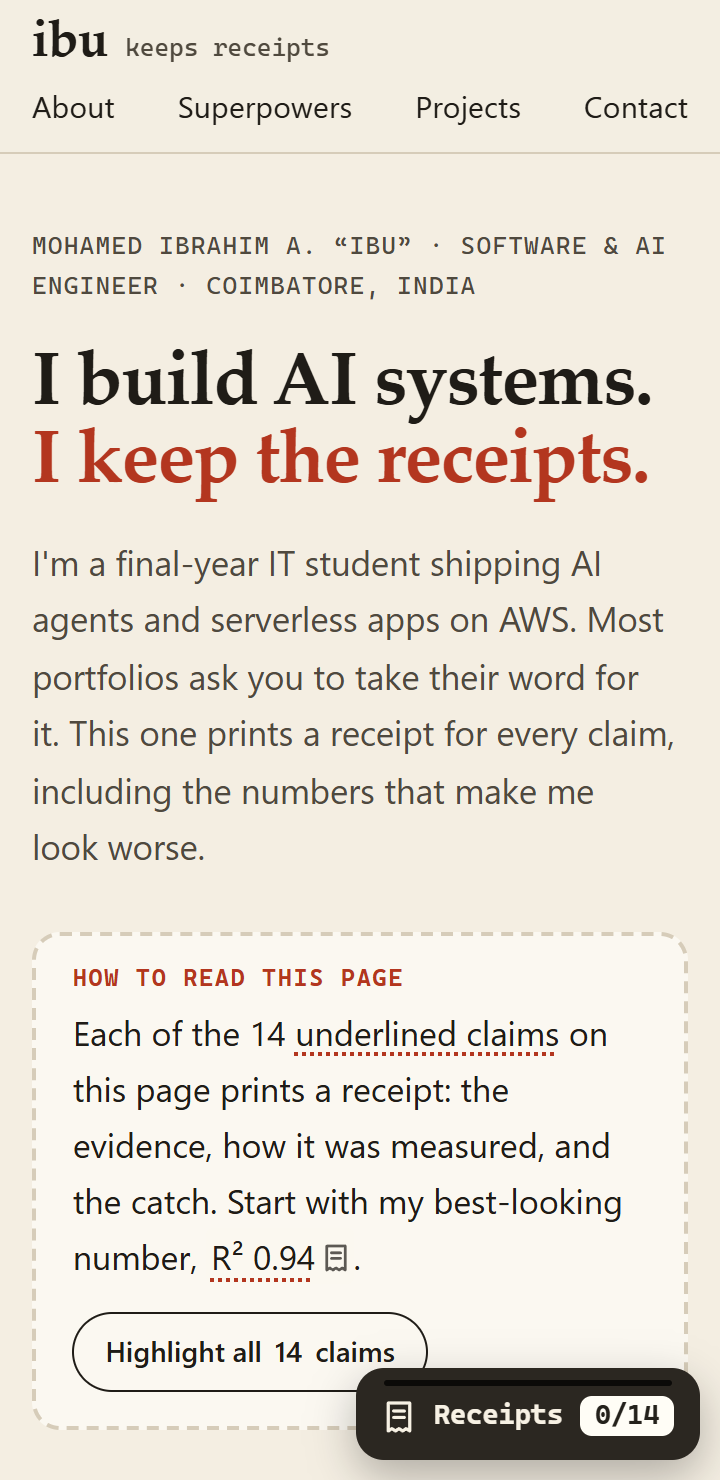
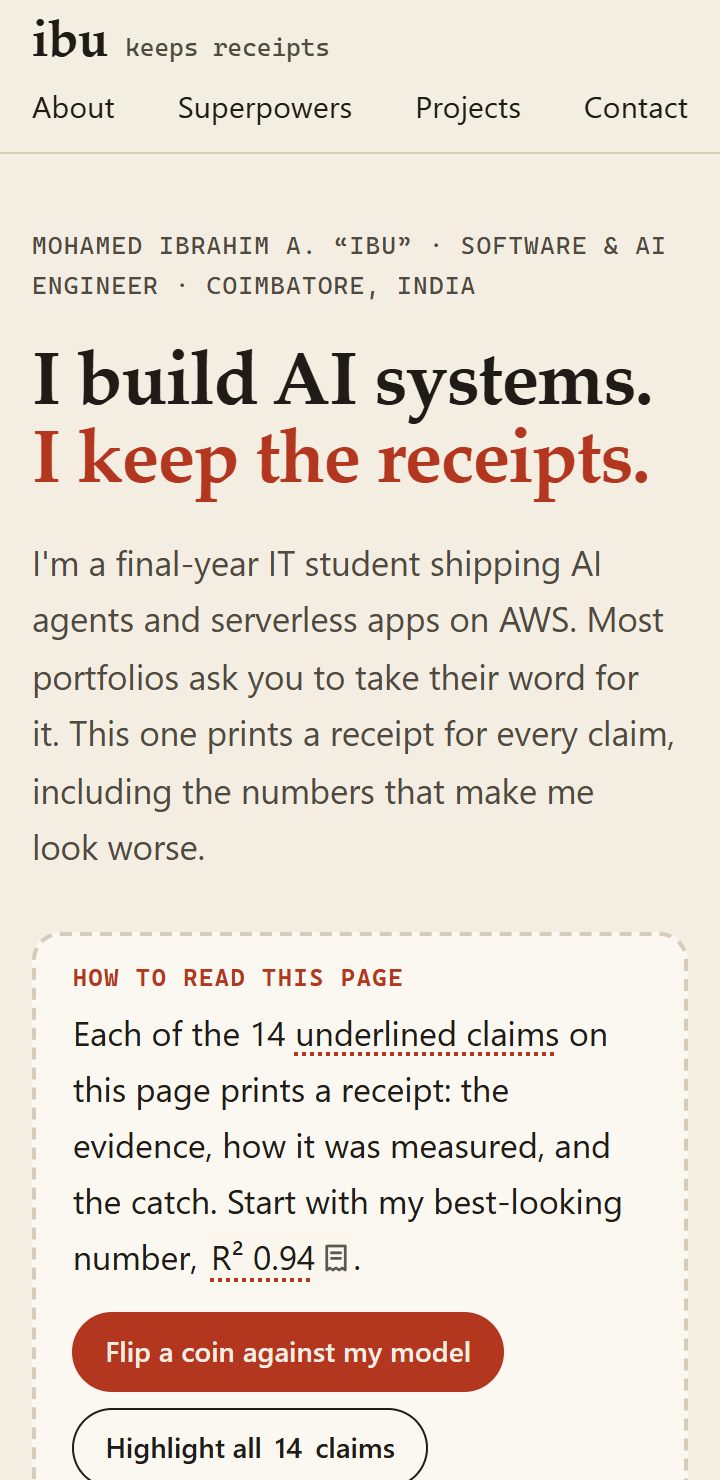
Screenshots and docs for build #4 [skip-cd]
- Re-captured 08 (hero with the coin-race button and build #4 stamp),
  09 (phone first screen, tab tucked), 10 (coin race) and 15 (site receipt).
- README and write-up: describe the coin-race button, use build #4 in
  examples, and add the phone-tab and axe findings to the challenges table.

Changed region(s): [[0.0917, 0.8703, 0.9778, 1.0], [0.0306, 0.9635, 0.0611, 1.0]]

diff --git a/PROJECT_WRITEUP.md b/PROJECT_WRITEUP.md
@@ -27,13 +27,13 @@ So for this challenge I asked: what if my portfolio followed the same rule? The 
 
 - **Every claim is a button.** Click `30 typed tools` and a receipt feeds out of a small printer docked bottom-right. It lists line items (`Tools in ALL_TOOLS ..... 30`), the evidence links (the exact file and line on GitHub), how it was measured, the catch, and a stamp: **Verified**, **Partial** or **Self-reported**.
 - **Corrections are printed, not hidden.** My README said the agent has 32 tools; the registry has 30. An old write-up said CryptoPulse used an 80/20 split; the notebook's LSTM cell splits 70/30. Tiny Tale Toy's README names a different model from the code. Those receipts carry a red **Corrected** box.
-- **Coin vs. model.** The CryptoPulse receipt has a button that flips a coin 100 times and races it against my model's 47.93%. The coin often wins, and the receipt says so.
+- **Coin vs. model.** The first screen has a **Flip a coin against my model** button. It prints the CryptoPulse receipt and races a coin, flipped 100 times, against my model's 47.93%. The coin often wins, and the receipt says so.
 - **The itemized bill.** The printer tab opens a summary: 14 claims, how many are backed by public proof, partial or self-reported, write-ups the code corrected, invented facts (0), and how many receipts *you* have audited.
-- **The page's own receipt.** On the first screen, the hero receipt shows which Amplify build and commit you're looking at ("Live on AWS Amplify · build #3 · commit …"). Click that, or the footer's "deployed on AWS Amplify", and you get the full receipt: app, branch, build number and commit, written into the page by the Amplify build at deploy time. I didn't type them. AWS did.
+- **The page's own receipt.** On the first screen, the hero receipt shows which Amplify build and commit you're looking at ("Live on AWS Amplify · build #4 · commit 1d61ba0"). Click that, or the footer's "deployed on AWS Amplify", and you get the full receipt: app, branch, build number and commit, written into the page by the Amplify build at deploy time. I didn't type them. AWS did.
 
 ![The page's own receipt next to the matching build in the Amplify console](https://raw.githubusercontent.com/MdIbuA/ibu-receipts/main/docs/screenshots/07-site-receipt-vs-console.png)
 
-**How you find it in ten seconds.** The first screen has a dashed **"How to read this page"** box that names the first claim to try (`R² 0.94`, which pulses a few times to catch your eye), a receipt-shaped **stub** that prints itself out of a little printer slot the first time you see it ("Printed for you at 10:42"), stamped with the live Amplify build, and a printer **tab** in the corner reading `0/14`. A **Highlight all 14 claims** button marks every claim on the page.
+**How you find it in ten seconds.** The first screen has a dashed **"How to read this page"** box that names the first claim to try (`R² 0.94`, which pulses a few times to catch your eye), a receipt-shaped **stub** that prints itself out of a little printer slot the first time you see it ("Printed for you at 10:42"), stamped with the live Amplify build, and a printer **tab** in the corner reading `0/14`. Two buttons sit in the hint: **Flip a coin against my model** and **Highlight all 14 claims**.
 
 ![Highlight mode: every claim in the Tech superpowers section marked like a highlighter pen](https://raw.githubusercontent.com/MdIbuA/ibu-receipts/main/docs/screenshots/13-feature-highlight.png)
 
@@ -87,6 +87,8 @@ There's no Lambda, API Gateway or database, on purpose. Everything the feature n
 | A section highlight in the nav stuck after scrolling back to the top | Clear the current section when it leaves the viewport band, not only when another enters |
 | The print animation is fun once and annoying for some people | `prefers-reduced-motion` disables printing, stamping and pulsing in both CSS and JS |
 | Amplify's first build reported its commit as `HEAD`, so the site's receipt printed "HEAD" instead of a hash | The stamp script now resolves anything that isn't a full hash with `git rev-parse HEAD` in the build's clone |
+| On a 360px phone, the floating receipts tab sat on top of the hint's buttons on the first screen | The tab tucks away while the hint is on screen and comes back once you scroll past it |
+| An accessibility scan (axe) flagged the hero receipt as an `<aside>` nested inside another landmark | Made it a labelled group; axe now reports zero issues at phone and desktop sizes |
 | Windows line endings would break the bash stamp script on Amplify's Linux builder | `.gitattributes` forces LF for `*.sh` and `amplify.yml` |
 | A `display: grid` rule once beat the `hidden` attribute in an earlier project of mine and covered the whole app | `[hidden] { display: none !important; }` from the first line |
 

diff --git a/README.md b/README.md
@@ -25,9 +25,9 @@ Click a number like `R² 0.94` or `30 typed tools` and a till-style receipt feed
 
 Three extras:
 
-- **Coin vs. model.** The CryptoPulse receipt lets you flip a coin 100 times against my LSTM's 47.93% direction accuracy. The coin often wins, and the receipt says so.
+- **Coin vs. model.** A **Flip a coin against my model** button on the first screen prints the CryptoPulse receipt and flips a coin 100 times against my LSTM's 47.93% direction accuracy. The coin often wins, and the receipt says so.
 - **The itemized bill.** A summary receipt with claims verified, partial and self-reported, write-ups corrected, invented facts (0), and how many receipts *you* have audited.
-- **The page's own receipt.** The hero receipt shows which Amplify build and commit you're looking at (for example "Live on AWS Amplify · build #3 · commit 1a2b3c4"). That line, and the footer claim "deployed on AWS Amplify", print a receipt the Amplify build writes at deploy time: app, branch, build number and commit. I don't write those numbers. AWS does.
+- **The page's own receipt.** The hero receipt shows which Amplify build and commit you're looking at (for example "Live on AWS Amplify · build #4 · commit 1d61ba0"). That line, and the footer claim "deployed on AWS Amplify", print a receipt the Amplify build writes at deploy time: app, branch, build number and commit. I don't write those numbers. AWS does.
 
 ### Why this is me
 
@@ -121,7 +121,7 @@ Link evidence with **commit permalinks** (on GitHub, open the file and press `y`
 | | |
 |---|---|
 | ![Desktop: a printed receipt](docs/screenshots/10-feature-receipt-desktop.png) | ![Mobile: the receipt as a bottom sheet](docs/screenshots/11-feature-receipt-mobile.png) |
-| ![The itemized bill](docs/screenshots/12-feature-bill.png) | ![The page's own receipt, written by the Amplify build: build #3, commit 8b432ac](docs/screenshots/15-live-site-receipt.png) |
+| ![The itemized bill](docs/screenshots/12-feature-bill.png) | ![The page's own receipt, written by the Amplify build: build #4, commit 1d61ba0](docs/screenshots/15-live-site-receipt.png) |
 
 ## Credits
 
